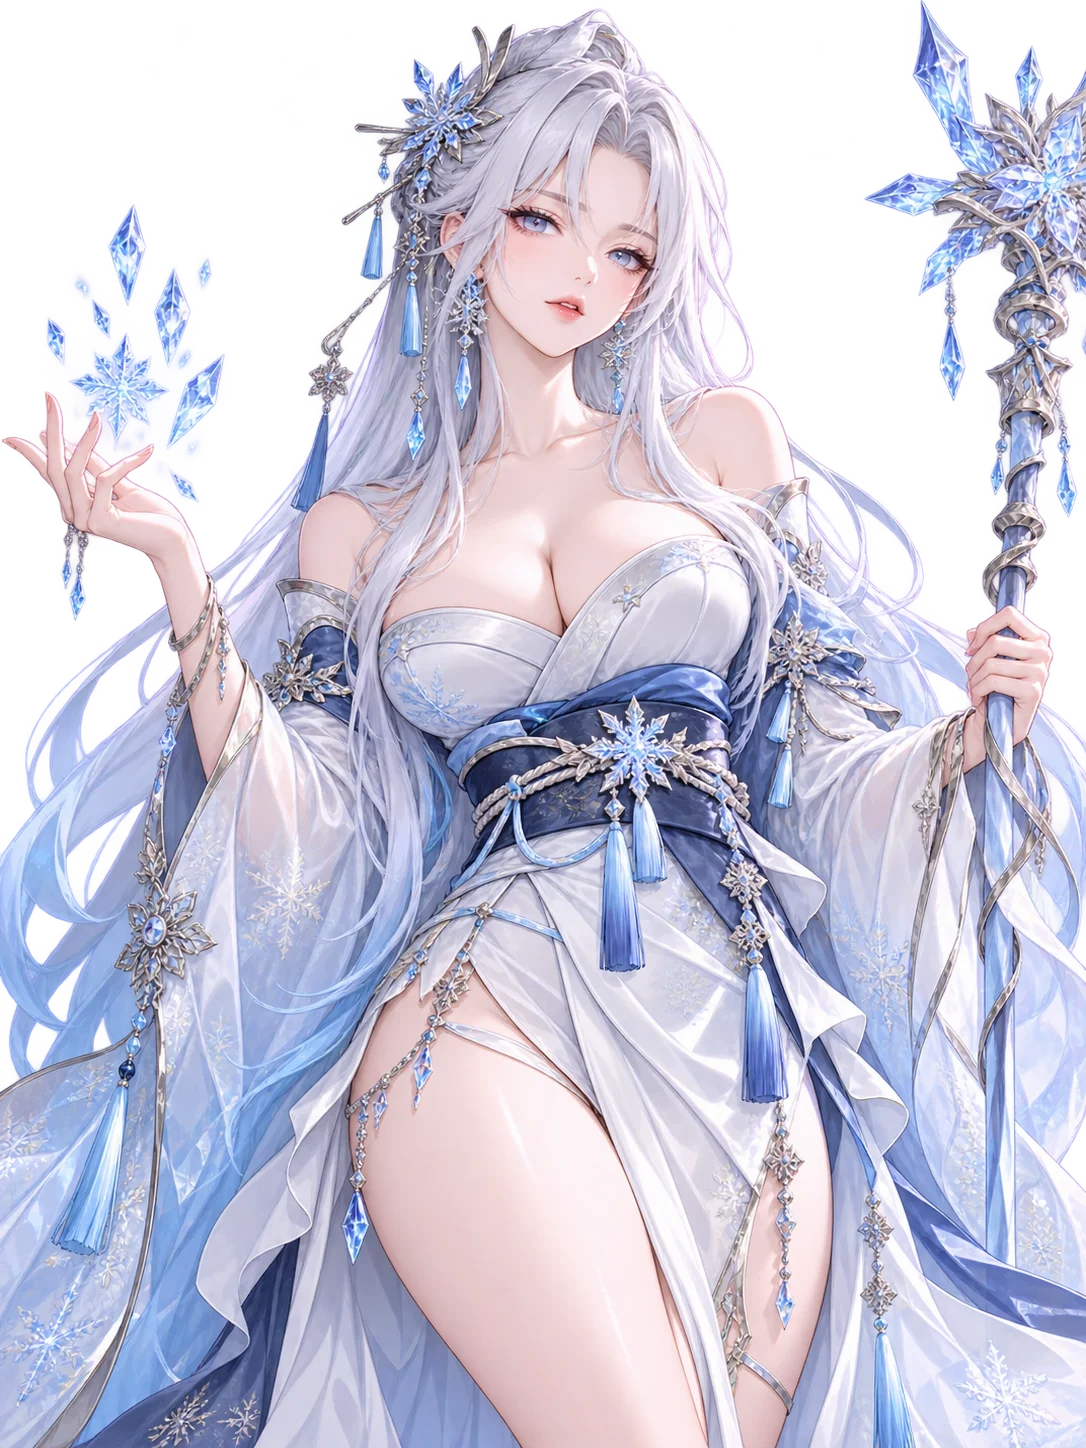
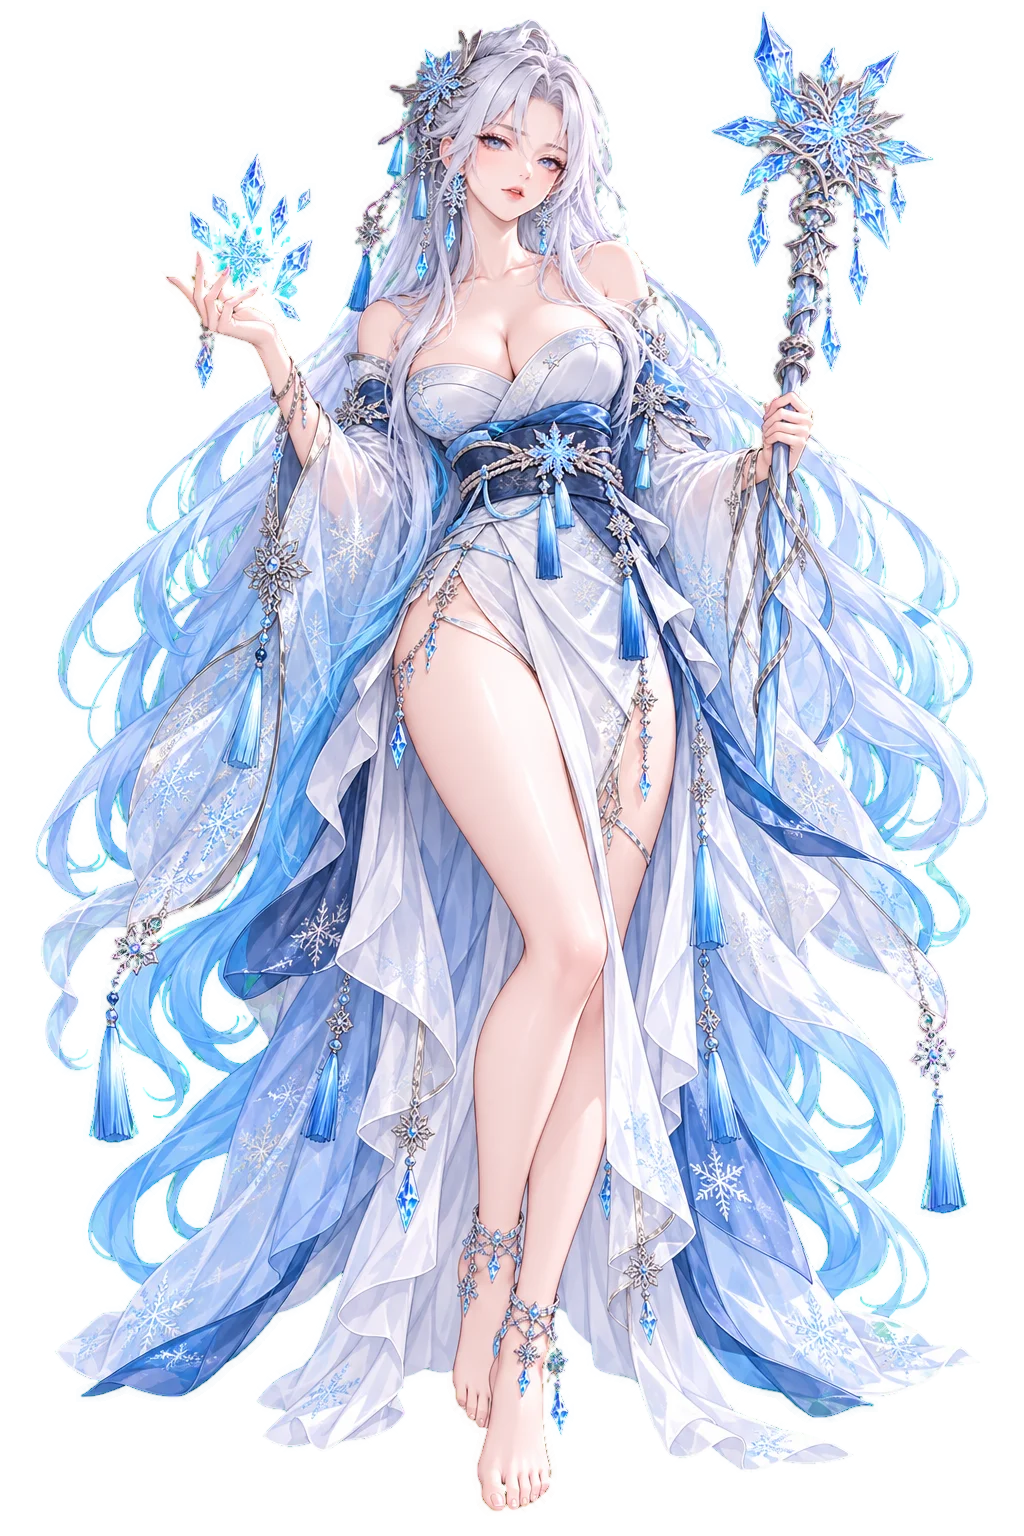
Yuki full-body portrait and 9 moods; upper-body framing on home and profile
Home and profile frame full-body art head to mid-thigh with a bottom fade
(the owner prefers the upper-body focus); the full body shows in the
lightbox. Yuki joins FULL_BODY.

Claude-Session: https://claude.ai/code/session_014TQK4FcH7XhvDKFXYNdRoM

diff --git a/src/style.css b/src/style.css
@@ -6117,8 +6117,8 @@ button.diary-row:hover {
 /* ── Portrait framing ──────────────────────────────────────────────────────
    Round avatars (.head-art, .result-art) wrap an .av-img so full-body art can be
    zoomed to her face inside the circle. Full-body portraits (.full, see FULL_BODY
-   in progression.ts) zoom into her upper body wherever the view crops, so they read
-   like the thighs-up art; big views show her whole, head to feet. */
+   in progression.ts) are framed on her upper body everywhere (the owner wants that
+   focus); the full body only shows in the lightbox. */
 .av-img {
   display: block;
   width: 100%;
@@ -6137,19 +6137,44 @@ button.diary-row:hover {
   transform-origin: 50% 2%;
   scale: 2.4;
 }
-/* Full-body art has a real transparent background, so no edge feathering. */
+/* Home: full-body art is framed head to mid-thigh like a key visual (the owner
+   prefers the upper-body focus), fading out at the bottom of her area. The image is
+   ~1.6× the visible height and anchored at the top, so on any screen shape she is cut
+   by the fade, never by a hard edge. --hero-top / --hero-bottom bound her area. */
+.lobby-hero:has(.full) {
+  --hero-top: clamp(36px, 6vh, 72px);
+  --hero-bottom: 0px;
+  padding: var(--hero-top) 0 0;
+  align-items: flex-start;
+  overflow: hidden;
+  -webkit-mask-image: linear-gradient(to bottom, #000 calc(100% - var(--hero-bottom) - 22%), transparent calc(100% - var(--hero-bottom)));
+  mask-image: linear-gradient(to bottom, #000 calc(100% - var(--hero-bottom) - 22%), transparent calc(100% - var(--hero-bottom)));
+}
 .full.home-hero {
+  /* real transparent background: no edge feathering */
   mask-image: none;
   -webkit-mask-image: none;
+  flex: none;
+  width: auto;
+  max-width: none;
+  max-height: none;
+  margin-top: 0;
+  height: calc((100% - var(--hero-bottom)) * 1.6);
+  object-fit: contain;
+  transform-origin: 50% 30%;
 }
-/* Landscape home: stand her between the title and the big buttons, boots visible. */
-@media (min-aspect-ratio: 1/1) {
+@media (max-aspect-ratio: 1/1) {
   .lobby-hero:has(.full) {
-    padding: clamp(40px, 7vh, 84px) 0 clamp(92px, 14vh, 168px);
+    --hero-top: calc(64px + env(safe-area-inset-top));
+    --hero-bottom: calc(200px + env(safe-area-inset-bottom));
   }
 }
+/* Profile: the same upper-body focus; "View full art" shows her head to feet. */
 .full.profile-art {
-  object-fit: contain;
-  object-position: 50% 100%;
-  padding-top: 12px;
+  object-position: 50% 0;
+  transform-origin: 50% 2%;
+  scale: 1.35;
+}
+.profile-art-wrap:has(.full) {
+  overflow: hidden;
 }

diff --git a/src/data/progression.ts b/src/data/progression.ts
@@ -47,7 +47,7 @@ export const GALLERY: GalleryItem[] = HEROINES.flatMap((h) =>
  * big views (home, chat, Bond, lightbox) show them whole. Remove the set once every
  * heroine has full-body art and make it the default framing in style.css.
  */
-export const FULL_BODY: ReadonlySet<string> = new Set(['scarlet']);
+export const FULL_BODY: ReadonlySet<string> = new Set(['scarlet', 'yuki']);
 
 /** Portrait used in shop, chat and roster. Mood variants: portrait-<mood>.webp */
 export function portraitFile(heroine: string, mood?: string): string {

diff --git a/docs/STATUS.md b/docs/STATUS.md
@@ -8,7 +8,7 @@
 
 - Full match loop on _Moonlit Shrine_: 20 waves, win/lose, results screen with Bond XP and unlock notices.
 - 4 heroines (Scarlet, Yuki, Kaede, Selene), 3 upgrade paths × 3 tiers, BTD6 crosspath rule, targeting modes, sell 70%.
-- Scarlet has full-body art (portrait + all 9 moods); `npm run art` removes a green-screen background; agents can generate art via Codex CLI (ART_GUIDE §9).
+- Scarlet and Yuki have full-body art (portrait + all 9 moods); `npm run art` removes a green-screen background; agents can generate art via Codex CLI (ART_GUIDE §9).
 - Enemies: 5 layered types, armored Iron Husk (immune to physical), Blight Colossus boss with HP bar.
 - Controls: speed 1×/2×/3×, auto-start, pause (auto-pauses when the tab is hidden), keyboard shortcuts.
 - Bond 1–10 (+2% attack rate/level), 8 chat episodes (2 per heroine, Bond 1 and 3), 20 gallery slots (Bond 2/4/6/8/10).
@@ -62,17 +62,17 @@
 
 ## Last session
 
-**2026-10-02 — Scarlet full-body art generated via Codex CLI (Claude, cloud session)**
+**2026-10-02 — Scarlet and Yuki full-body art generated via Codex CLI (Claude, cloud session)**
 
 - Owner asked whether an agent could use his ChatGPT plan to make the art. Answer: Codex CLI signs in with the plan (`codex login --device-auth`) and has image generation; workflow documented in `docs/ART_GUIDE.md` §9. Owner also asked for **full-body** portraits so legs are never cropped.
 - Done: Scarlet's new `portrait.webp` (full body, approved by the owner; second take fixed her trigger fingers) and all 9 moods, generated with her portrait as reference on a flat green background. Silhouettes differ from the base by < 0.5 %, so she doesn't jump between moods in chats.
-- `npm run art` now removes a green screen (corners pure green → keyed; each green-tinted pixel is unmixed against the nearest solid colour up to 6 px away, which keeps soft hair and translucent cloth). Yuki's full-body portrait is generated (scratch only) and awaiting owner approval.
-- `FULL_BODY` in `progression.ts` marks heroines with full-body art; `artImg`/`artChain` add `.full`, and CSS zooms small views (shop card, roster, avatars, Messages card, tree) to her upper body while home and profile show her head to feet. Round avatars (`.head-art`, `.result-art`) now wrap an `.av-img`. Bond (portrait) and chat stay close-ups.
-- Not done: Yuki, Kaede and Selene are still thighs-up; Scarlet's chibi and gallery are unchanged.
+- `npm run art` now removes a green screen (corners pure green → keyed; each green-tinted pixel is unmixed against the nearest solid colour up to 6 px away, which keeps soft hair and translucent cloth). Yuki's full-body portrait (approved) + 9 moods are in, same method (moods within 0.5 % of the base silhouette).
+- `FULL_BODY` in `progression.ts` marks heroines with full-body art; `artImg`/`artChain` add `.full`, and CSS frames her upper body everywhere: home and profile head to mid-thigh with a bottom fade (owner preference, after a first version showed her whole), cards/avatars closer; "View full art" shows the full body. Round avatars (`.head-art`, `.result-art`) now wrap an `.av-img`. Bond (portrait) and chat stay close-ups.
+- Not done: Kaede and Selene are still thighs-up; Scarlet's chibi and gallery are unchanged.
 - Previously (2026-09-29, local session): focus-ring and locked-chat fixes, `.githooks/pre-push` runs check + smoke before a push (D-024), generated README images (`npm run shots`, D-025).
 
 ## Next up
 
-1. **Full-body art for Yuki, Kaede, Selene** (owner wants them all; same Codex workflow, §9 of ART_GUIDE; add each id to `FULL_BODY`; when all four are done, drop the set and make full body the default framing; re-run `npm run shots` so the README shows the new art). Then **Owner check:** Messages → a heroine → Gift / Diary / Talk. Then **owner playtest of the upgrade tree and the bigger heroines** (is 1.5 tiles right? `CHIBI_H` in `BattleScene.ts`; does the map panel sit on the right side of her?) and **install the PWA** on the phone (Add to Home Screen). Then **owner playtest of the skill effects** (upgrade each path to 3 with `?dev`; are signatures readable, too flashy at 3× speed?) and the longer music. Then **owner playtest of music + motion** (is the lofi too quiet/loud? any animation that feels slow or annoying? Tweak durations in the motion block of `style.css`). Then **owner playtest of the lobby + Frostveil Pass**, then the previous items. **Owner playtest (earlier):** read a Bond 5+ chat, watch combat at tier 3, listen to the new sounds. Tune in `Vfx.ts` / `sound.ts`.
+1. **Full-body art for Kaede, Selene** (owner wants them all; same Codex workflow, §9 of ART_GUIDE; add each id to `FULL_BODY`; when all four are done, drop the set and make full body the default framing; re-run `npm run shots` so the README shows the new art). Then **Owner check:** Messages → a heroine → Gift / Diary / Talk. Then **owner playtest of the upgrade tree and the bigger heroines** (is 1.5 tiles right? `CHIBI_H` in `BattleScene.ts`; does the map panel sit on the right side of her?) and **install the PWA** on the phone (Add to Home Screen). Then **owner playtest of the skill effects** (upgrade each path to 3 with `?dev`; are signatures readable, too flashy at 3× speed?) and the longer music. Then **owner playtest of music + motion** (is the lofi too quiet/loud? any animation that feels slow or annoying? Tweak durations in the motion block of `style.css`). Then **owner playtest of the lobby + Frostveil Pass**, then the previous items. **Owner playtest (earlier):** read a Bond 5+ chat, watch combat at tier 3, listen to the new sounds. Tune in `Vfx.ts` / `sound.ts`.
 2. **Art:** more mood portraits now matter more (20 chats use all 9 moods), and scene backgrounds could become real art later (`.scene-*` in `style.css`).
 3. **B-03b perf check** (Vfx adds particles; cap is 700), then **B-04 barks**, **B-12 age gate**, **B-05 tiers 4–5**.

diff --git a/docs/DECISIONS.md b/docs/DECISIONS.md
@@ -104,4 +104,4 @@ The smoke test took ~11 min on the 2-core GitHub runner (software WebGL) and ran
 
 ### D-026 · 2026-10-02 · Portraits are full body; agents generate art through Codex CLI; green screen keyed at import
 
-Owner wanted no cropped legs. Portraits are now generated full body (2:3), and the game picks the framing per view: home and profile show her whole, small cards and avatars zoom to the upper body with CSS `scale` (Safari-safe, unlike `object-view-box`), chat and Bond stay close-ups. A `FULL_BODY` set marks converted heroines so old thighs-up art keeps its framing during the transition. Generators rarely return real transparency, so prompts ask for flat #00FF00 and `npm run art` keys it (no new image dependency; it runs in the smoke-test Chromium). Codex CLI was chosen over an API key or browser automation because it uses the owner's existing ChatGPT plan and is an official OpenAI client (ChatGPT web automation would break its terms).
+Owner wanted no cropped legs. Portraits are now generated full body (2:3), but the owner wants the upper-body focus on screen, so the game frames it: home and profile head to mid-thigh (the image is ~1.6× the visible height, anchored at the top, fading out at the bottom, so any screen shape cuts her with a fade rather than a hard edge), small cards and avatars closer with CSS `scale` (Safari-safe, unlike `object-view-box`); only the lightbox shows her whole. A `FULL_BODY` set marks converted heroines so old thighs-up art keeps its framing during the transition. Generators rarely return real transparency, so prompts ask for flat #00FF00 and `npm run art` keys it (no new image dependency; it runs in the smoke-test Chromium). Codex CLI was chosen over an API key or browser automation because it uses the owner's existing ChatGPT plan and is an official OpenAI client (ChatGPT web automation would break its terms).

diff --git a/docs/ART_GUIDE.md b/docs/ART_GUIDE.md
@@ -65,7 +65,7 @@ Follow these rules or faces get cut off:
 
 - **Portraits (`portrait*.webp`)**
   - Framing: **full body**, head to feet, centered, standing, facing the viewer, with a small margin above her head and below her shoes. Nothing cropped (not her hair ornaments, not her heels).
-  - The home screen and profile show her whole. Small cards, avatars and the chat zoom in on her upper body automatically, so her face should be near the top (it is, in a standing full-body pose).
+  - Full body is the source so no screen ever cuts her off at a hard edge; the game still frames her **head to mid-thigh** on the home screen and profile (fading out below), zooms further in on cards, avatars and the chat, and shows her whole in "View full art".
   - After adding a heroine's first full-body portrait, add her id to `FULL_BODY` in `src/data/progression.ts` (that switches her small views to the zoomed framing). Older thighs-up art still works without it.
   - The background must be **transparent** (a box behind her looks bad on the home screen). Image generators rarely give real transparency, so ask for a **flat solid pure green (#00FF00)** background instead: `npm run art` detects green corners and removes the green automatically, edges included.
   - **All moods must match `portrait.webp` exactly** (same pose, crop, outfit, size and position). Only the face and maybe the arms change. In chats, the game swaps one mood image for another, so if the body moves she will visibly "jump".
